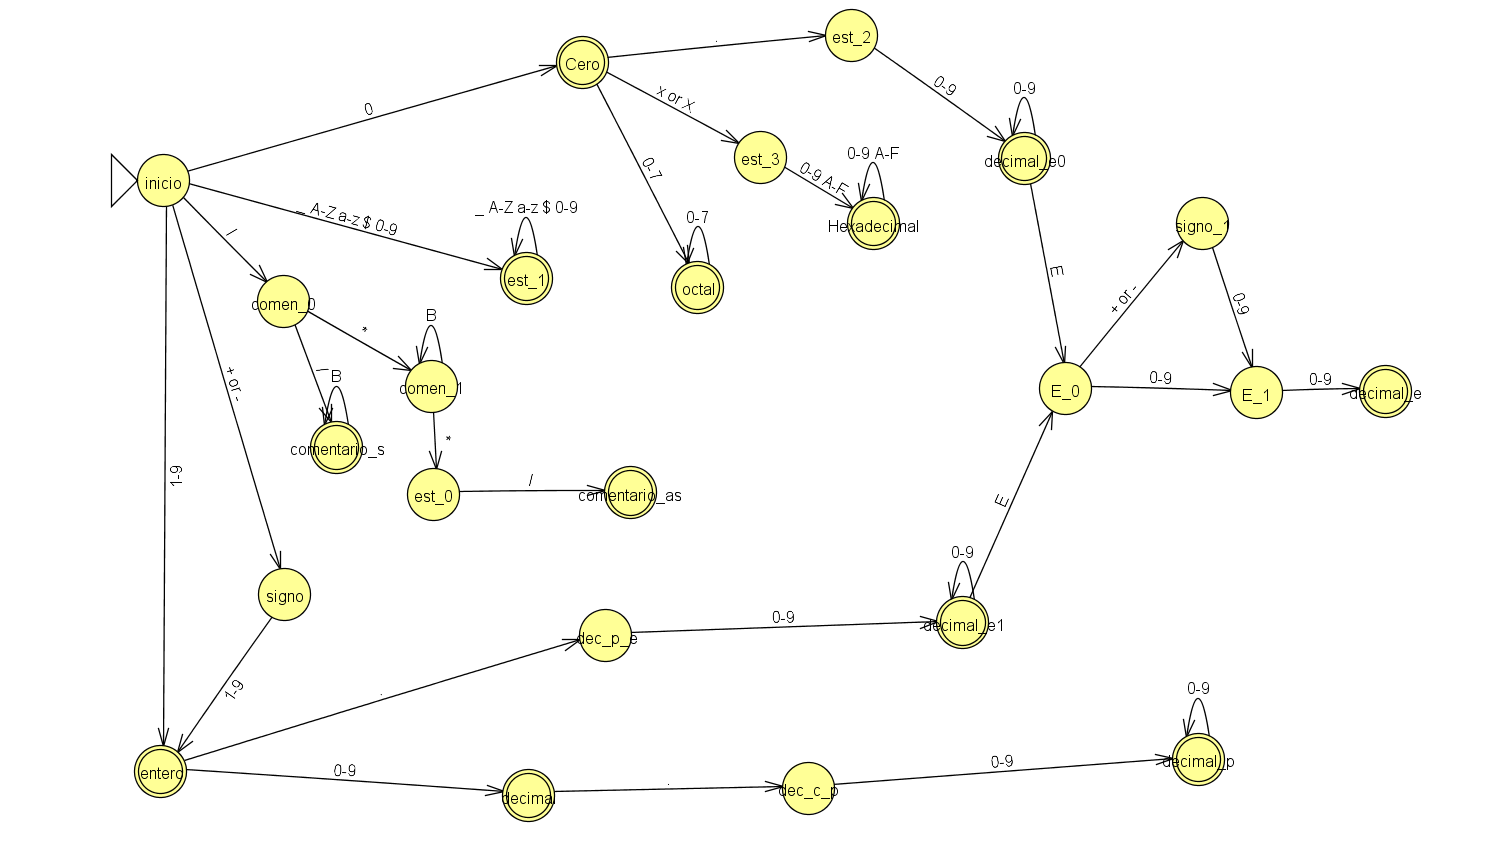
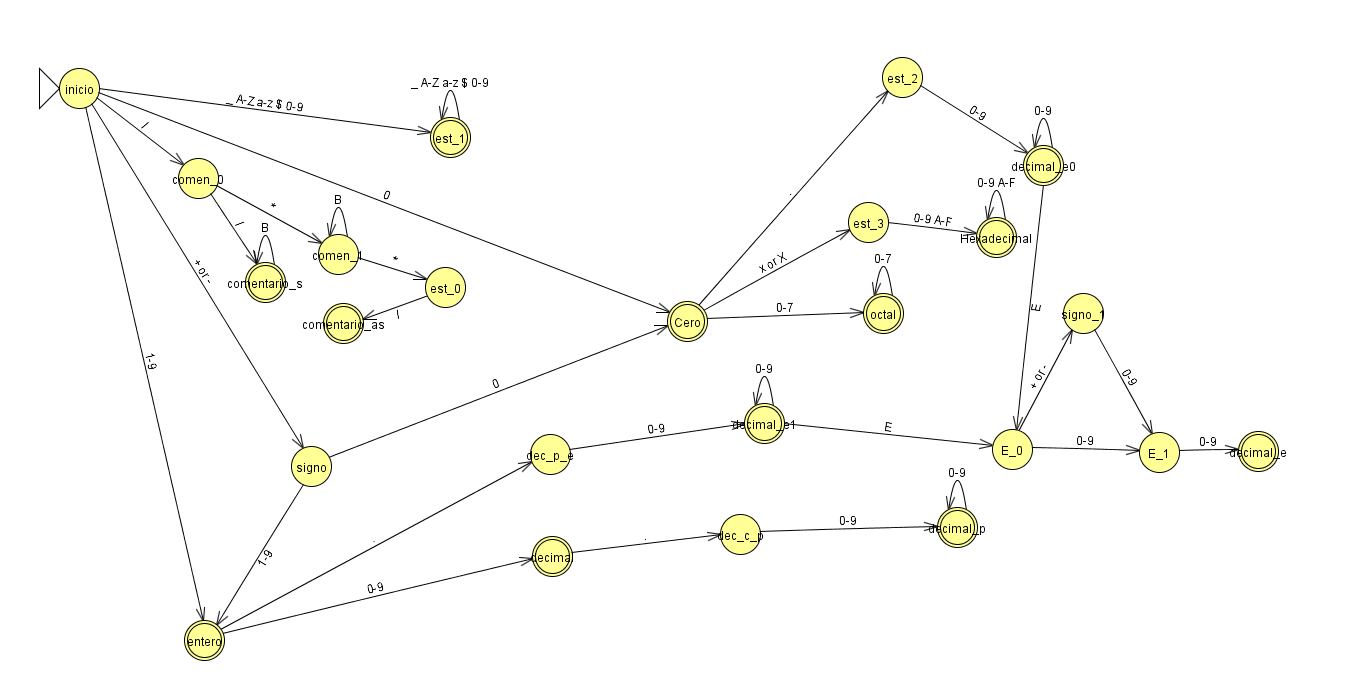
Correciones

diff --git a/Practica02/Practica02.py b/Practica02/Practica02.py
@@ -20,31 +20,31 @@ class Automata: #automata encargado del analisis.
              ##Estado inicial
             if self.estado == "inicio":
                 if self.transicion in numeros:
-                    self.estado="auxDec"
+                    self.estado="entero"
                 elif self.transicion=='+' or self.transicion=='-':
                     self.estado="signo" 
                 elif self.transicion=='0':
                     self.estado="Cero"  
                 elif self.transicion=='/':
-                    self.estado="com"      
+                    self.estado="comen_0"      
                 elif self.transicion.isalpha()  or self.transicion=='_' or self.transicion=='$':
-                    self.estado="Alpha"                      
+                    self.estado="est_1"                      
                 else:
                     return False
 
-            ##Estado 'auxDec'    
-            elif self.estado =="auxDec": 
+            ##Estado 'entero'    
+            elif self.estado =="entero": 
                 if self.transicion == '.':
-                  self.estado='puntoE'    
+                  self.estado='dec_p_e'    
                 elif str.isdigit(self.transicion):
                   self.estado='Decimal' 
                 else: 
                     return False
                 
-            ##Estado 'puntoD'    
-            elif self.estado =="puntoD": 
+            ##Estado 'dec_c_p'    
+            elif self.estado =="dec_c_p": 
                 if str.isdigit(self.transicion):
-                  self.estado='DecimalsE' 
+                  self.estado='decimal_p' 
                 else: 
                     return False
 
@@ -52,31 +52,31 @@ class Automata: #automata encargado del analisis.
             ##Estado 'Decimal'    
             elif self.estado =="Decimal": 
                 if self.transicion == '.':
-                  self.estado='puntoD'  
+                  self.estado='dec_c_p'  
                 elif str.isdigit(self.transicion):
                   self.estado='Decimal' 
                 else: 
                     return False
                 
-            ##Estado 'puntoE'    
-            elif self.estado =='puntoE':
+            ##Estado 'dec_p_e'    
+            elif self.estado =='dec_p_e':
                 if str.isdigit(self.transicion):
-                  self.estado='DecimalsE2'      
+                  self.estado='decimal_e1'      
                 else: 
                     return False
 
             
-            ##Estado 'DecimalsE'    
-            elif self.estado =='DecimalsE':
+            ##Estado 'decimal_p'    
+            elif self.estado =='decimal_p':
                 if str.isdigit(self.transicion):
-                  self.estado='DecimalsE' 
+                  self.estado='decimal_p' 
                 else: 
                     return False   
                 
-            ##Estado 'DecimalsE2'    
-            elif self.estado =='DecimalsE2':
+            ##Estado 'decimal_e1'    
+            elif self.estado =='decimal_e1':
                 if str.isdigit(self.transicion):
-                  self.estado='DecimalsE2' 
+                  self.estado='decimal_e1' 
                 elif self.transicion=='E':
                   self.estado='E'                   
                 else: 
@@ -85,7 +85,7 @@ class Automata: #automata encargado del analisis.
             ##Estado 'signo'    
             elif self.estado =='signo':
                 if self.transicion in numeros:
-                  self.estado='auxDec'
+                  self.estado='entero'
                 elif self.transicion == '0':
                   self.estado='Cero'   
                 else: 
@@ -94,14 +94,14 @@ class Automata: #automata encargado del analisis.
             ##Estado 'aux'    
             elif self.estado =='aux':
                 if str.isdigit(self.transicion):
-                  self.estado='DecimalsE0'  
+                  self.estado='decimal_e0'  
                 else: 
                     return False   
                 
-            ##Estado 'DecimalsE0'    
-            elif self.estado =='DecimalsE0':
+            ##Estado 'decimal_e0'    
+            elif self.estado =='decimal_e0':
                 if str.isdigit(self.transicion):
-                  self.estado='DecimalsE0' 
+                  self.estado='decimal_e0' 
                 elif self.transicion=='E':
                   self.estado='E'                    
                 else: 
@@ -115,14 +115,14 @@ class Automata: #automata encargado del analisis.
                 elif self.transicion in octa_list:
                   self.estado='Octal'  
                 elif self.transicion=='X'or self.transicion=='x':
-                  self.estado='0X'                    
+                  self.estado='est_3'                    
                 else: 
                     return False 
                 
              ##Estado 'E'
             elif self.estado =='E':
                 if self.transicion=='+' or self.transicion=='-':   
-                    self.estado='Signo2'
+                    self.estado='signo_1'
                 elif str.isdigit(self.transicion):
                     self.estado='digitE'
                 else: 
@@ -138,19 +138,19 @@ class Automata: #automata encargado del analisis.
              ##Estado 'digitE'
             elif self.estado =='digitE':
                 if str.isdigit(self.transicion):
-                    self.estado='DecimalExp'
+                    self.estado='decimal_p'
                 else: 
                     return False
                 
-              ##Estado 'Signo2'
-            elif self.estado =='Signo2':              
+              ##Estado 'signo_1'
+            elif self.estado =='signo_1':              
                 if str.isdigit(self.transicion):
                     self.estado='digitE'
                 else: 
                     return False
 
-            ##Estado 'cero-x'    
-            elif self.estado =='0X':
+            ##Estado 'est_3'    
+            elif self.estado =='est_3':
                 if str.isdigit(self.transicion) or self.transicion in hexa:
                   self.estado='Hexadecimal'                     
                 else:
@@ -163,37 +163,37 @@ class Automata: #automata encargado del analisis.
                 else:
                  return False
 
-            ##Estado 'com'          
-            elif self.estado =='com':
+            ##Estado 'comen_0'          
+            elif self.estado =='comen_0':
                 if self.transicion=='*':
-                    self.estado='*'
+                    self.estado='comen_1'
                 elif self.transicion=='/':
-                   self.estado='Comentario'
+                   self.estado='comentario_s'
                 else: 
                     return False
                 
-            ##Estado '*'          
-            elif self.estado =='*':
+            ##Estado 'comen_1'          
+            elif self.estado =='comen_1':
                 if self.transicion=='*':
-                    self.estado='com2'
+                    self.estado='est_0'
                 else: 
-                    self.estado='*'
+                    self.estado='comen_1'
                 
-            ##Estado 'com2'          
-            elif self.estado =='com2':
+            ##Estado 'est_0'          
+            elif self.estado =='est_0':
                 if self.transicion=='/':
-                    self.estado='ComentarioAs'
+                    self.estado='comentario_as'
                 else: 
                     return False
 
-            elif self.estado =='Comentario':  
+            elif self.estado =='comentario_s':  
                 return True
 
             
-            ##Estado 'Alpha'          
-            elif self.estado =='Alpha':
+            ##Estado 'est_1'          
+            elif self.estado =='est_1':
                 if self.transicion.isalnum() or self.transicion=='_' or self.transicion=='$':
-                    self.estado='Alpha'
+                    self.estado='est_1'
          
                 else: 
                    return False
@@ -202,30 +202,30 @@ class Automata: #automata encargado del analisis.
             else:
               return False          
         
-        if self.estado=="DecimalsE":
+        if self.estado=="decimal_p":
             return True
-        elif self.estado=="DecimalsE2":
+        elif self.estado=="decimal_e1":
             return True    
-        elif self.estado=="DecimalsE0":
+        elif self.estado=="decimal_e0":
             return True        
         elif self.estado=="Decimal":
             return True
         elif self.estado=="Octal":
             return True
-        elif self.estado=="DecimalExp":
+        elif self.estado=="decimal_p":
             return True               
     
         elif self.estado=="Hexadecimal":
             return True 
-        elif self.estado=="Comentario":
+        elif self.estado=="comentario_s":
             return True
-        elif self.estado=="ComentarioAs":
+        elif self.estado=="comentario_as":
             return True 
-        elif self.estado=="auxDec":
+        elif self.estado=="entero":
             return True 
-        elif self.estado=="Alpha":
+        elif self.estado=="est_1":
             return True         
-        elif self.estado=="*":
+        elif self.estado=="comen_1":
             return False             
 
 def main(): #funcion principal 

diff --git a/Practica02/Ejemplo.java b/Practica02/Ejemplo.java
@@ -6,8 +6,8 @@ public class EjemploPracticaAnalizador {
      double PI = 3.1416, CteGrav = -6.674E-19;
      float prom = (float) 0.0
      double val#;
-     /* Calculos_generales
-     for ( int i=1 ; i < 100 ){
+     // Calculos_generales
+     /*for ( int i=1 ; i < 100 ){
          prom =+i;
           } 
       */
